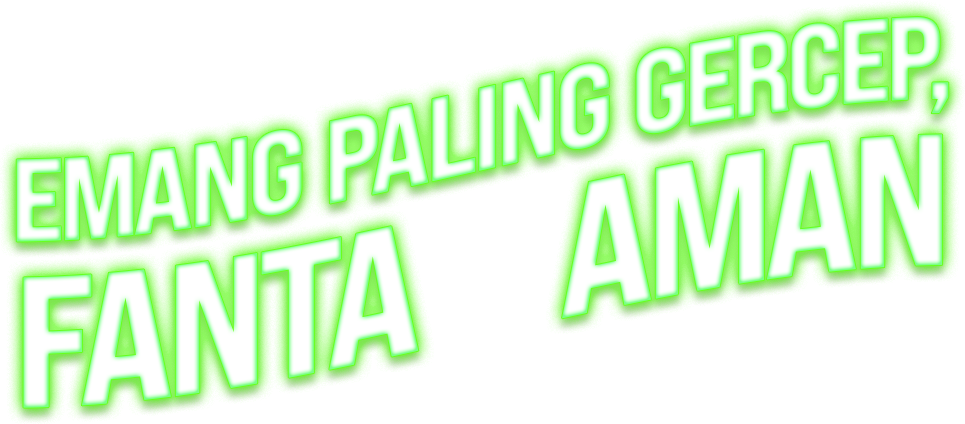
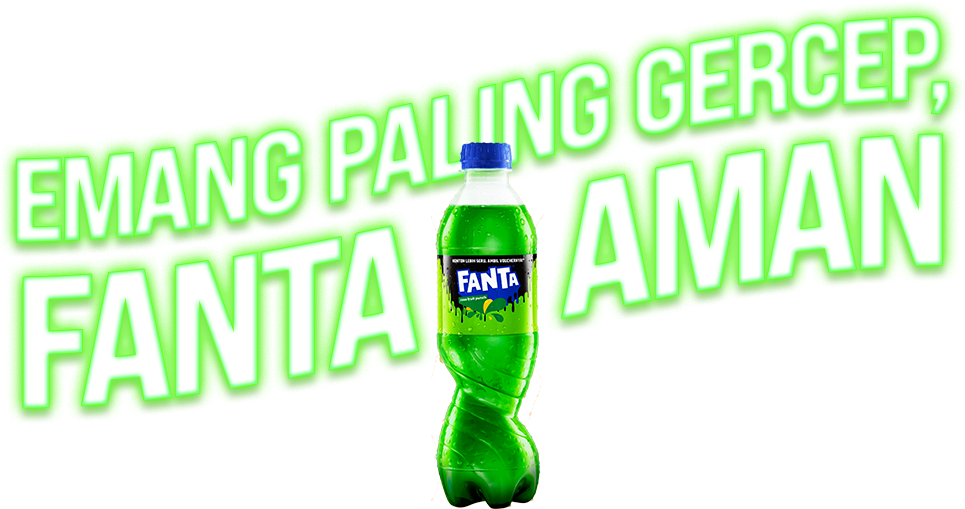
Update headline Win: botol menyatu ke artwork
Aset baru 965x509, sebelumnya 965x424 -- botol FANTA yang dulu mengisi
celah antara "FANTA" dan "AMAN" kini menyatu ke dalam plate, sehingga
artwork memanjang 85px ke bawah.

Blok teksnya tidak berubah (ink tetap di y 114..408 pada sumbernya),
jadi left/top/width tetap dan hanya tinggi box yang mengikuti rasio
baru: 88.045% * (509/965) * 6/13 = 21.434%. Rumus yang sama menghasilkan
tepat 17.855% untuk aset lama, dan 20.47% untuk varian coupon-out yang
sudah ada -- jadi konsisten dengan konvensi file ini. Diverifikasi teks
bergeser 0 px.

Sekalian memperbaiki gepeng yang sudah ada sebelumnya: body adalah flex
container, dan pada HP yang lebih tinggi dari 6:13 (412x915, 360x800,
mayoritas Android sekarang) lebar artboard melebihi 100vw sehingga
flex-shrink:1 bawaan meremasnya kembali -- 6:13 menjadi 0.450, gepeng
horizontal 2.44% yang ditanggung semua elemen ber-persen di atasnya,
termasuk headline ini. Overflow-nya memang dimaksudkan dipotong
overflow:hidden milik body, bukan diserap kotaknya.

Diuji 320x568, 360x800, 390x844, 412x915 pada 3 varian kuota: rasio
artboard tepat 6:13, nol elemen ter-distorsi, nol request gagal.

diff --git a/FantaHorror/index.css b/FantaHorror/index.css
@@ -140,6 +140,14 @@ body {
     max-width: none;
     max-height: none;
     aspect-ratio: 6 / 13;
+    /*
+      body is a flex container, so on a phone taller than 6:13 -- 412x915, 360x800, most
+      current Android -- the width above exceeds 100vw and the default flex-shrink:1
+      squeezed the artboard back to the viewport: 6:13 became 0.450, a 2.44% horizontal
+      squash carried by every percentage-positioned element on top of it. The overflow is
+      meant to be cropped by body's overflow:hidden, not absorbed by the box.
+    */
+    flex-shrink: 0;
     /* Undo flex centring's even split, down to the 2:7 offset. */
     position: relative;
     top: calc(var(--fit-over) / 2 - var(--fit-crop));
@@ -1303,8 +1311,15 @@ body {
 
 /*
   Sized off the asset's own glow bounds so it lands where the old composite painted the
-  headline (67..1009 of the 1080 artboard). The gap between "FANTA" and "AMAN" is in the
-  artwork itself -- that is where the composite used to sit its bottle.
+  headline (67..1009 of the 1080 artboard).
+
+  The child img is stretched to this box (width/height 100%, no object-fit), so the box
+  has to carry the asset's aspect ratio or the artwork skews. Height therefore follows
+  from the width: 88.045% * (509/965) * 6/13 = 21.434%. The bottle now sits inside the
+  artwork -- it used to be a separate layer filling the gap between "FANTA" and "AMAN" --
+  which is what made the plate 965x509 instead of 965x424. The text block is untouched
+  (ink still spans y 114..408 of the source), so `top` stays put and only the bottle
+  extends further down.
 */
 #screen-win .result-header {
   position: absolute;
@@ -1312,7 +1327,7 @@ body {
   left:   5.839%;
   top:    7.695%;
   width: 88.045%;
-  height: 17.855%;
+  height: 21.434%;
   margin: 0;
   opacity: 1;
   pointer-events: none;

diff --git a/FantaHorror/index.html b/FantaHorror/index.html
@@ -6,7 +6,7 @@
   <title>FANTA Horror Gamification - Gebuk Suzzanna, Amankan Fantamu!</title>
   <meta name="description" content="Mainkan game FANTA Horror! Lindungi botol Fanta dari cegatan tangan Suzzanna selama 30 detik untuk memenangkan voucher nonton bioskop eksklusif!">
   
-  <link rel="stylesheet" href="index.css?v=20260812-norepeat">
+  <link rel="stylesheet" href="index.css?v=20260812-headline2">
 </head>
 <body>
 
@@ -96,7 +96,7 @@
     <!-- 4. WINNER SCREEN -->
     <section id="screen-win" class="screen hidden">
       <div class="result-header">
-        <img class="winner-normal-header" src="assets/win_rev_headline.webp?v=20260812-bgv2" alt="Emang Paling Gercep, Fanta Aman">
+        <img class="winner-normal-header" src="assets/win_rev_headline.webp?v=20260812-bottle" alt="Emang Paling Gercep, Fanta Aman">
         <img class="winner-coupon-header" src="assets/crop_winner_header.webp?v=20260812-wide-coupon" alt="Emang Paling Gercep, Fanta Aman">
       </div>
 
